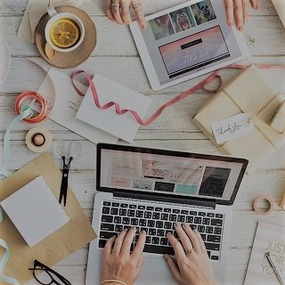
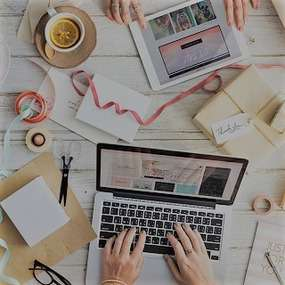
reconvrestion jpg to jp2

diff --git a/style.css b/style.css
@@ -1,1 +1,1 @@
-body{margin:0;padding:0;background:#FFF;overflow-x:hidden;-webkit-font-smoothing:antialiased;-moz-osx-font-smoothing:grayscale}a,button{transition:all .3s ease-in-out;outline:none!important}a:hover{text-decoration:none;cursor:pointer}#page-loading-blocs-notifaction{position:fixed;top:0;bottom:0;width:100%;z-index:100000;background:#FFF url("img/pageload-spinner.gif") no-repeat center center}.list-social{list-style:none;display:flex;flex-direction:row}.list-social li{margin:auto 3.5rem}.keywords{color:#ccc;font-size:1px}.quote{font-size:2.5rem}.title-section{text-align:center;font-size:3.8rem;font-weight:bolder;margin:0 0 2rem}.parlons,.partenaires>li{color:black!important}.parlons{font-size:1.4rem}.bloc-form{display:flex;flex-direction:column;align-items:center}.row-footer,.partenaires{display:flex;justify-content:center}.partenaires{margin:20px 0}.bloc{width:100%;clear:both;background:50% 50% no-repeat;padding:0 50px;-webkit-background-size:cover;-moz-background-size:cover;-o-background-size:cover;background-size:cover;position:relative}.bloc .container{padding-left:0;padding-top:2rem;padding-right:0}.bloc-lg{padding:100px 50px}.bloc-md{padding:50px}.bloc-sm{padding:20px 50px}.bg-center,.bg-l-edge,.bg-r-edge,.bg-t-edge,.bg-b-edge,.bg-tl-edge,.bg-bl-edge,.bg-tr-edge,.bg-br-edge,.bg-repeat{-webkit-background-size:auto!important;-moz-background-size:auto!important;-o-background-size:auto!important;background-size:auto!important}.bg-repeat{background:repeat}.bg-t-edge{background:top no-repeat}.bloc-bg-texture::before{content:"";background-size:2px 2px;position:absolute;top:0;bottom:0;left:0;right:0}.texture-paper::before{background:url("img/texture-paper.png");background-size:280px 280px}.b-parallax{background-attachment:fixed}.d-bloc{color:rgba(255, 255, 255, .7)}.d-bloc button:hover{color:rgba(255, 255, 255, .9)}.d-bloc .icon-round, .d-bloc .icon-square, .d-bloc .icon-rounded, .d-bloc .icon-semi-rounded-a, .d-bloc .icon-semi-rounded-b{border-color:rgba(255, 255, 255, .9)}.d-bloc .divider-h span{border-color:rgba(255, 255, 255, .2)}.d-bloc .a-btn, .d-bloc .navbar a, .d-bloc .navbar-brand, .d-bloc a .icon-sm, .d-bloc a .icon-md, .d-bloc a .icon-lg, .d-bloc a .icon-xl, .d-bloc h1 a, .d-bloc h2 a, .d-bloc h3 a, .d-bloc h4 a, .d-bloc h5 a, .d-bloc h6 a, .d-bloc p a{color:rgba(255, 255, 255, .6)}.d-bloc .a-btn:hover, .d-bloc .navbar a:hover, .d-bloc .navbar-brand:hover, .d-bloc a:hover .icon-sm, .d-bloc a:hover .icon-md, .d-bloc a:hover .icon-lg, .d-bloc a:hover .icon-xl, .d-bloc h1 a:hover, .d-bloc h2 a:hover, .d-bloc h3 a:hover, .d-bloc h4 a:hover, .d-bloc h5 a:hover, .d-bloc h6 a:hover, .d-bloc p a:hover{color:rgba(255, 255, 255, 1)}.d-bloc .navbar-toggle .icon-bar{background:rgba(255, 255, 255, 1)}.d-bloc .btn-wire, .d-bloc .btn-wire:hover{color:rgba(255, 255, 255, 1);border-color:rgba(255, 255, 255, 1)}.d-bloc .panel{color:rgba(0, 0, 0, .5)}.d-bloc .panel button:hover{color:rgba(0, 0, 0, .7)}.d-bloc .panel icon{border-color:rgba(0, 0, 0, .7)}.d-bloc .panel .divider-h span{border-color:rgba(0, 0, 0, .1)}.d-bloc .panel .a-btn{color:rgba(0, 0, 0, .6)}.d-bloc .panel .a-btn:hover{color:rgba(0, 0, 0, 1)}.d-bloc .panel .btn-wire, .d-bloc .panel .btn-wire:hover{color:rgba(0, 0, 0, .7);border-color:rgba(0, 0, 0, .3)}.d-bloc .panel,.l-bloc{color:rgba(0, 0, 0, .5)}.d-bloc .panel button:hover, .l-bloc button:hover{color:rgba(0, 0, 0, .7)}.l-bloc .icon-round, .l-bloc .icon-square, .l-bloc .icon-rounded, .l-bloc .icon-semi-rounded-a, .l-bloc .icon-semi-rounded-b{border-color:rgba(0, 0, 0, .7)}.d-bloc .panel .divider-h span, .l-bloc .divider-h span{border-color:rgba(0, 0, 0, .1)}.d-bloc .panel .a-btn, .l-bloc .a-btn, .l-bloc .navbar a, .l-bloc .navbar-brand, .l-bloc a .icon-sm, .l-bloc a .icon-md, .l-bloc a .icon-lg, .l-bloc a .icon-xl, .l-bloc h1 a, .l-bloc h2 a, .l-bloc h3 a, .l-bloc h4 a, .l-bloc h5 a, .l-bloc h6 a, .l-bloc p a{color:rgba(0, 0, 0, .6)}.d-bloc .panel .a-btn:hover, .l-bloc .a-btn:hover, .l-bloc .navbar a:hover, .l-bloc .navbar-brand:hover, .l-bloc a:hover .icon-sm, .l-bloc a:hover .icon-md, .l-bloc a:hover .icon-lg, .l-bloc a:hover .icon-xl, .l-bloc h1 a:hover, .l-bloc h2 a:hover, .l-bloc h3 a:hover, .l-bloc h4 a:hover, .l-bloc h5 a:hover, .l-bloc h6 a:hover, .l-bloc p a:hover{color:rgba(0, 0, 0, 1)}.l-bloc .navbar-toggle .icon-bar{color:rgba(0, 0, 0, .6)}.d-bloc .panel .btn-wire, .d-bloc .panel .btn-wire:hover, .l-bloc .btn-wire, .l-bloc .btn-wire:hover{color:rgba(0,0,0,.7);border-color:rgba(0,0,0,.3)}.voffset{margin-top:30px}.voffset-lg{margin-top:80px}.row-no-gutters{margin-right:0;margin-left:0}.row.row-no-gutters > [class^="col-"], .row.row-no-gutters > [class*=" col-"]{padding-right:0;padding-left:0}#bloc-1-hero h1{font-size:32px}.navbar{margin-bottom:0;z-index:1}.navbar-brand{height:auto;padding:3px 15px;font-size:25px;font-weight:normal;font-weight:600;line-height:44px}.navbar-brand img{max-height:200px;margin:0 5px 0 0;display:inline}.navbar-brand img[src$=svg]{min-width:100px}.nav-center .navbar-brand img{margin:0}.navbar .nav{padding-top:2px;margin-right:-16px;float:right;z-index:1}.nav>li{float:left;margin-top:4px;font-size:16px}.navbar-nav .open .dropdown-menu>li>a{text-align:inherit}.nav > li a:hover, .nav > li a:focus{background:transparent}.navbar-toggle{margin:10px 10px 0 0;border:0px}.navbar-toggle:hover{background:transparent!important}.navbar-toggle .icon-bar{background-color:rgba(0, 0, 0, .5);width:26px}.nav-invert .navbar .nav{float:left}.nav-invert .navbar-header, .nav-invert .navbar-brand{float:right;position:relative;z-index:2}@media (min-width: 768px){.site-navigation{position:absolute;top:50%;right:20px;transform:translate(0, -50%);-webkit-transform:translateY(-50%)}.nav > li .dropdown-menu a, .nav > li .dropdown-menu a:hover{color:#484848}.nav-invert .site-navigation{left:0;right:0}.nav-center{text-align:center}.nav-center .navbar-header{width:100%}.nav-center .navbar-header, .nav-center .navbar-brand, .nav-center .nav>li{float:none;display:inline-block}.nav-center .site-navigation{position:relative;width:100%;right:0;margin-right:0px;margin-top:20px}.nav-center.mini-nav .navbar-toggle{float:none;margin:10px auto 0}}.nav > li > .dropdown a{background:none!important;display:block;padding:14px 15px}nav .caret{margin:0 5px}.dropdown-menu .dropdown-menu{top:-8px;left:100%}.dropdown-menu .dropmenu-flow-right{top:100%;left:0;margin-left:-1px;border-top-left-radius:0;border-top-right-radius:0}.dropdown-menu .dropdown span{border:4px solid black;border-top-color:transparent;border-right-color:transparent;border-bottom-color:transparent;margin:6px -5px 0 0!important;float:right}.mg-md{margin-top:10px;margin-bottom:20px}.mg-lg{margin-top:10px;margin-bottom:40px}.btn{margin:0 5px 5px 0}.btn.pull-right{margin:0 0 5px 5px}.btn-d,.btn-d:hover,.btn-d:focus{color:#FFF;background:rgba(0,0,0,.3)}button{outline:none!important}.btn-rd{border-radius:40px}.btn-clean{border:1px solid rgba(0, 0, 0, .08);border-bottom-color:rgba(0, 0, 0, .1);text-shadow:0 1px 0 rgba(0, 0, 1, .1);box-shadow:0 1px 3px rgba(0, 0, 1, .25), inset 0 1px 0 0 rgba(255,255,255,.15)}.icon-md{font-size:30px!important}.icon-lg{font-size:60px!important}.sm-shadow{text-shadow:0 1px 2px rgba(0, 0, 0, .3)}.panel-sq, .panel-sq .panel-heading, .panel-sq .panel-footer{border-radius:0}.panel-rd{border-radius:30px}.panel-rd .panel-heading{border-radius:29px 29px 0 0}.panel-rd .panel-footer{border-radius:0 0 29px 29px}.form-control{border-color:rgba(0,0,0,.1);box-shadow:none}.scrollToTop{width:40px;height:40px;position:fixed;bottom:20px;right:20px;opacity:0;z-index:500;transition:all .3s ease-in-out}.scrollToTop span{margin-top:6px}.showScrollTop{font-size:14px;opacity:1}a[data-lightbox]{position:relative;display:block;text-align:center}a[data-lightbox]:hover::before{content:"+";font-family:"HelveticaNeue-Light","Helvetica Neue Light","Helvetica Neue",Helvetica,Arial;font-size:32px;width:50px;height:50px;margin-left:-25px;border-radius:50%;background:rgba(0, 0, 0, .6);color:#FFF;font-weight:100;z-index:1;position:absolute;top:50%;transform:translateY(-50%);-webkit-transform:translateY(-50%)}a[data-lightbox]:hover img{opacity:0.6;-webkit-animation-fill-mode:none;animation-fill-mode:none}#lightbox-modal{display:flex;align-items:center}#lightbox-modal .modal-dialog{width:90%;max-width:900px;margin:0 auto 0}#lightbox-modal .modal-dialog img{max-height:90vh;margin:0 auto}.lightbox-caption{padding:20px;color:#FFF;background:rgba(0,0,0,.5);position:absolute;left:15px;right:15px;bottom:5px}.close-lightbox{color:#FFF;font-size:30px;position:absolute;top:20px;right:20px;z-index:20;background:rgba(0, 0, 0, .5);border:none;line-height:30px;padding:0 9px 5px;opacity:0.3}.close-lightbox:hover,.next-lightbox:hover,.prev-lightbox:hover{opacity:1.0;color:#FFF}.next-lightbox,.prev-lightbox{font-size:20px;color:rgba(255, 255, 255, .9);background:rgba(0, 0, 0, .5);transition:all .2s ease-in-out;position:absolute;top:45%;z-index:1;opacity:0.4}.next-lightbox{padding:6px 8px 1px 13px;right:25px}.prev-lightbox{padding:6px 13px 1px 10px;left:25px}.snapshot-lb .modal-body{padding-bottom:45px}.snapshot-lb .lightbox-caption{padding:0;color:rgba(0,0,0,.5);background:none}h1,h2,h3,h4,h5,h6,p,label,.btn{font-family:"helvetica";font-weight:400;color:#575757!important}a{font-family:"helvetica";font-weight:400;color:black!important}.container{max-width:1000px}.hero-bloc-text{font-size:38px}.hero-bloc-text-sub{font-size:36px}.statement-bloc-text{line-height:26px;font-style:italic;font-size:20px;text-align:center;font-weight:lighter;max-width:520px;margin:auto auto auto auto}p{font-size:1.4rem}.tight-width-whitespace{max-width:600px;margin:auto auto auto auto}.h1{font-size:20px;font-family:"Open Sans"}.cta-hero{margin-top:22px;color:#FFFFFF!important;text-transform:uppercase;padding:12px 28px 12px 28px;font-size:16px;font-weight:700}.social{max-width:400px;margin:auto auto auto auto}h2,.serv_agence{font-size:22px;line-height:1.4em}.serv_reco{font-size:13px}h3{font-size:15px;text-transform:uppercase;font-weight:700;color:#333333!important}.med-width-whitespace{max-width:800px;margin:auto auto auto auto;box-shadow:0px 0px 0px #000}h1{color:#333333!important}h4{color:#333333!important}.icons{margin-bottom:14px;margin-top:24px}.white{color:#FFFFFF!important}.portfolio-thumb{margin-bottom:24px}.portfolio-row{margin-bottom:44px;margin-top:50px}.avatar{box-shadow:0px 4px 9px rgba(0,0,0,0.3)}.black-background{background-color:rgba(165, 147, 99, 0.7);padding:40px 40px 40px 40px}.bold-link{font-weight:900;text-decoration:underline!important}.bgc-white{background-color:#FFF}.bgc-dark-slate-blue{background-color:#364577}.bgc-atomic-tangerine{background-color:#F3976C}.tc-white{color:white!important}.btn-atomic-tangerine{background:#F3976C;color:black!important}.btn-atomic-tangerine:hover{background:#c27956!important;color:#FFFFFF!important}.ltc-white{color:#FFFFFF!important}.ltc-white:hover{color:#cccccc!important}.ltc-atomic-tangerine{color:#F3976C!important}.ltc-atomic-tangerine:hover{color:#c27956!important}.icon-dark-slate-blue{color:#364577!important;border-color:#364577!important}.bg-dots-bg{background-image:url("img/dots-bg.png")}.bg-lines-h2-bg{background-image:url("img/lines-h2-bg.png")}.bg-banniere{background-image:url("img/la-chouette-agence-banniere.jpg")}.bg-presentation{background-image:url("img/image-de-presentation.jpg")}@media (max-width: 1024px){.bloc{padding-left:20px;padding-right:20px}.bloc.full-width-bloc, .bloc-tile-2.full-width-bloc .container, .bloc-tile-3.full-width-bloc .container, .bloc-tile-4.full-width-bloc .container{padding-left:0;padding-right:0}}@media (max-width: 992px) and (min-width: 768px){.navbar .nav{max-width:80%}.nav-center.navbar .nav{max-width:100%}}@media only screen and (min-device-width: 768px) and (max-device-width: 1024px) and (orientation: landscape){.b-parallax{background-attachment:scroll}}@media only screen and (min-device-width: 1024px) and (max-device-width: 1366px) and (-webkit-min-device-pixel-ratio: 1.5){.b-parallax{background-attachment:scroll}}@media (max-width: 991px){.container{width:100%}.b-parallax{background-attachment:scroll}.page-container,#hero-bloc{overflow-x:hidden;position:relative}.bloc{padding-left:constant(safe-area-inset-left);padding-right:constant(safe-area-inset-right)}.bloc-group, .bloc-group .bloc{display:block;width:100%}.bloc-fill-screen .fill-bloc-top-edge, .bloc-fill-screen .fill-bloc-bottom-edge{padding:0 20px;padding-left:constant(safe-area-inset-left);padding-right:constant(safe-area-inset-right)}}@media (max-width: 767px){.page-container{overflow-x:hidden;position:relative}h1,h2,h3,h4,h5,h6,p,#disqus_thread{padding-left:10px!important;padding-right:10px!important}.b-parallax{background-attachment:scroll}.navbar .nav{padding-top:0;border-top:1px solid rgba(0,0,0,.2);float:none!important}.navbar.row{margin-left:0;margin-right:0}.site-navigation{position:inherit;transform:none;-webkit-transform:none;-ms-transform:none}.nav>li{margin-top:0;border-bottom:1px solid rgba(0,0,0,.1);background:rgba(0,0,0,.05);text-align:left;padding-left:15px;width:100%}.nav>li:hover{background:rgba(0, 0, 0, .08)}.dropdown .dropdown a .caret{float:none;margin:5px 0 0 10px!important;border:4px solid black;border-bottom-color:transparent;border-right-color:transparent;border-left-color:transparent}#hero-bloc .navbar .nav{background:rgba(0, 0, 0, .8)}#hero-bloc .navbar .nav a{color:rgba(255,255,255,.6)}.hero{padding:50px 0}.hero-nav{left:-1px;right:-1px}.navbar-collapse{padding:0;overflow-x:hidden;-webkit-box-shadow:none;box-shadow:none}.navbar-brand img{max-height:40px;width:auto}.nav-invert .navbar-header{float:none;width:100%}.nav-invert .navbar-toggle{float:left;margin-left:10px}.bloc{padding-left:0;padding-right:0}.bloc-xxl,.bloc-xl,.bloc-lg{padding:40px 0}.bloc-sm,.bloc-md{padding-left:0;padding-right:0}.bloc-tile-2 .container, .bloc-tile-3 .container, .bloc-tile-4 .container, .bloc-fill-screen .fill-bloc-top-edge, .bloc-fill-screen .fill-bloc-bottom-edge{padding-left:0;padding-right:0}.a-block{padding:0 10px}.btn-dwn{display:none}.voffset{margin-top:5px}.voffset-md{margin-top:20px}.voffset-lg{margin-top:30px}form{padding:5px}.close-lightbox{display:inline-block}.blocsapp-device-iphone5{background-size:216px 425px;padding-top:60px;width:216px;height:425px}.blocsapp-device-iphone5 img{width:180px;height:320px}}@media (max-width: 400px){.bloc{padding-left:0;padding-right:0}.list-social li{margin:auto 2.8rem}}@media (max-width: 767px){.bloc-mob-center-text{text-align:center}img{margin:auto}}
+body{margin:0;padding:0;background:#FFF;overflow-x:hidden;-webkit-font-smoothing:antialiased;-moz-osx-font-smoothing:grayscale}a,button{transition:all .3s ease-in-out;outline:none!important}a:hover{text-decoration:none;cursor:pointer}#page-loading-blocs-notifaction{position:fixed;top:0;bottom:0;width:100%;z-index:100000;background:#FFF url("img/pageload-spinner.gif") no-repeat center center}.list-social{list-style:none;display:flex;flex-direction:row}.list-social li{margin:auto 3.5rem}.keywords{color:#ccc;font-size:1px}.quote{font-size:2.5rem}.title-section{text-align:center;font-size:3.8rem;font-weight:bolder;margin:0 0 2rem}.parlons,.partenaires>li{color:black!important}.parlons{font-size:1.4rem}.bloc-form{display:flex;flex-direction:column;align-items:center}.row-footer,.partenaires{display:flex;justify-content:center}.partenaires{margin:20px 0}.bloc{width:100%;clear:both;background:50% 50% no-repeat;padding:0 50px;-webkit-background-size:cover;-moz-background-size:cover;-o-background-size:cover;background-size:cover;position:relative}.bloc .container{padding-left:0;padding-top:2rem;padding-right:0}.bloc-lg{padding:100px 50px}.bloc-md{padding:50px}.bloc-sm{padding:20px 50px}.bg-center,.bg-l-edge,.bg-r-edge,.bg-t-edge,.bg-b-edge,.bg-tl-edge,.bg-bl-edge,.bg-tr-edge,.bg-br-edge,.bg-repeat{-webkit-background-size:auto!important;-moz-background-size:auto!important;-o-background-size:auto!important;background-size:auto!important}.bg-repeat{background:repeat}.bg-t-edge{background:top no-repeat}.bloc-bg-texture::before{content:"";background-size:2px 2px;position:absolute;top:0;bottom:0;left:0;right:0}.texture-paper::before{background:url("img/texture-paper.png");background-size:280px 280px}.b-parallax{background-attachment:fixed}.d-bloc{color:rgba(255, 255, 255, .7)}.d-bloc button:hover{color:rgba(255, 255, 255, .9)}.d-bloc .icon-round, .d-bloc .icon-square, .d-bloc .icon-rounded, .d-bloc .icon-semi-rounded-a, .d-bloc .icon-semi-rounded-b{border-color:rgba(255, 255, 255, .9)}.d-bloc .divider-h span{border-color:rgba(255, 255, 255, .2)}.d-bloc .a-btn, .d-bloc .navbar a, .d-bloc .navbar-brand, .d-bloc a .icon-sm, .d-bloc a .icon-md, .d-bloc a .icon-lg, .d-bloc a .icon-xl, .d-bloc h1 a, .d-bloc h2 a, .d-bloc h3 a, .d-bloc h4 a, .d-bloc h5 a, .d-bloc h6 a, .d-bloc p a{color:rgba(255, 255, 255, .6)}.d-bloc .a-btn:hover, .d-bloc .navbar a:hover, .d-bloc .navbar-brand:hover, .d-bloc a:hover .icon-sm, .d-bloc a:hover .icon-md, .d-bloc a:hover .icon-lg, .d-bloc a:hover .icon-xl, .d-bloc h1 a:hover, .d-bloc h2 a:hover, .d-bloc h3 a:hover, .d-bloc h4 a:hover, .d-bloc h5 a:hover, .d-bloc h6 a:hover, .d-bloc p a:hover{color:rgba(255, 255, 255, 1)}.d-bloc .navbar-toggle .icon-bar{background:rgba(255, 255, 255, 1)}.d-bloc .btn-wire, .d-bloc .btn-wire:hover{color:rgba(255, 255, 255, 1);border-color:rgba(255, 255, 255, 1)}.d-bloc .panel{color:rgba(0, 0, 0, .5)}.d-bloc .panel button:hover{color:rgba(0, 0, 0, .7)}.d-bloc .panel icon{border-color:rgba(0, 0, 0, .7)}.d-bloc .panel .divider-h span{border-color:rgba(0, 0, 0, .1)}.d-bloc .panel .a-btn{color:rgba(0, 0, 0, .6)}.d-bloc .panel .a-btn:hover{color:rgba(0, 0, 0, 1)}.d-bloc .panel .btn-wire, .d-bloc .panel .btn-wire:hover{color:rgba(0, 0, 0, .7);border-color:rgba(0, 0, 0, .3)}.d-bloc .panel,.l-bloc{color:rgba(0, 0, 0, .5)}.d-bloc .panel button:hover, .l-bloc button:hover{color:rgba(0, 0, 0, .7)}.l-bloc .icon-round, .l-bloc .icon-square, .l-bloc .icon-rounded, .l-bloc .icon-semi-rounded-a, .l-bloc .icon-semi-rounded-b{border-color:rgba(0, 0, 0, .7)}.d-bloc .panel .divider-h span, .l-bloc .divider-h span{border-color:rgba(0, 0, 0, .1)}.d-bloc .panel .a-btn, .l-bloc .a-btn, .l-bloc .navbar a, .l-bloc .navbar-brand, .l-bloc a .icon-sm, .l-bloc a .icon-md, .l-bloc a .icon-lg, .l-bloc a .icon-xl, .l-bloc h1 a, .l-bloc h2 a, .l-bloc h3 a, .l-bloc h4 a, .l-bloc h5 a, .l-bloc h6 a, .l-bloc p a{color:rgba(0, 0, 0, .6)}.d-bloc .panel .a-btn:hover, .l-bloc .a-btn:hover, .l-bloc .navbar a:hover, .l-bloc .navbar-brand:hover, .l-bloc a:hover .icon-sm, .l-bloc a:hover .icon-md, .l-bloc a:hover .icon-lg, .l-bloc a:hover .icon-xl, .l-bloc h1 a:hover, .l-bloc h2 a:hover, .l-bloc h3 a:hover, .l-bloc h4 a:hover, .l-bloc h5 a:hover, .l-bloc h6 a:hover, .l-bloc p a:hover{color:rgba(0, 0, 0, 1)}.l-bloc .navbar-toggle .icon-bar{color:rgba(0, 0, 0, .6)}.d-bloc .panel .btn-wire, .d-bloc .panel .btn-wire:hover, .l-bloc .btn-wire, .l-bloc .btn-wire:hover{color:rgba(0,0,0,.7);border-color:rgba(0,0,0,.3)}.voffset{margin-top:30px}.voffset-lg{margin-top:80px}.row-no-gutters{margin-right:0;margin-left:0}.row.row-no-gutters > [class^="col-"], .row.row-no-gutters > [class*=" col-"]{padding-right:0;padding-left:0}#bloc-1-hero h1{font-size:32px}.navbar{margin-bottom:0;z-index:1}.navbar-brand{height:auto;padding:3px 15px;font-size:25px;font-weight:normal;font-weight:600;line-height:44px}.navbar-brand img{max-height:200px;margin:0 5px 0 0;display:inline}.navbar-brand img[src$=svg]{min-width:100px}.nav-center .navbar-brand img{margin:0}.navbar .nav{padding-top:2px;margin-right:-16px;float:right;z-index:1}.nav>li{float:left;margin-top:4px;font-size:16px}.navbar-nav .open .dropdown-menu>li>a{text-align:inherit}.nav > li a:hover, .nav > li a:focus{background:transparent}.navbar-toggle{margin:10px 10px 0 0;border:0px}.navbar-toggle:hover{background:transparent!important}.navbar-toggle .icon-bar{background-color:rgba(0, 0, 0, .5);width:26px}.nav-invert .navbar .nav{float:left}.nav-invert .navbar-header, .nav-invert .navbar-brand{float:right;position:relative;z-index:2}@media (min-width: 768px){.site-navigation{position:absolute;top:50%;right:20px;transform:translate(0, -50%);-webkit-transform:translateY(-50%)}.nav > li .dropdown-menu a, .nav > li .dropdown-menu a:hover{color:#484848}.nav-invert .site-navigation{left:0;right:0}.nav-center{text-align:center}.nav-center .navbar-header{width:100%}.nav-center .navbar-header, .nav-center .navbar-brand, .nav-center .nav>li{float:none;display:inline-block}.nav-center .site-navigation{position:relative;width:100%;right:0;margin-right:0px;margin-top:20px}.nav-center.mini-nav .navbar-toggle{float:none;margin:10px auto 0}}.nav > li > .dropdown a{background:none!important;display:block;padding:14px 15px}nav .caret{margin:0 5px}.dropdown-menu .dropdown-menu{top:-8px;left:100%}.dropdown-menu .dropmenu-flow-right{top:100%;left:0;margin-left:-1px;border-top-left-radius:0;border-top-right-radius:0}.dropdown-menu .dropdown span{border:4px solid black;border-top-color:transparent;border-right-color:transparent;border-bottom-color:transparent;margin:6px -5px 0 0!important;float:right}.mg-md{margin-top:10px;margin-bottom:20px}.mg-lg{margin-top:10px;margin-bottom:40px}.btn{margin:0 5px 5px 0}.btn.pull-right{margin:0 0 5px 5px}.btn-d,.btn-d:hover,.btn-d:focus{color:#FFF;background:rgba(0,0,0,.3)}button{outline:none!important}.btn-rd{border-radius:40px}.btn-clean{border:1px solid rgba(0, 0, 0, .08);border-bottom-color:rgba(0, 0, 0, .1);text-shadow:0 1px 0 rgba(0, 0, 1, .1);box-shadow:0 1px 3px rgba(0, 0, 1, .25), inset 0 1px 0 0 rgba(255,255,255,.15)}.icon-md{font-size:30px!important}.icon-lg{font-size:60px!important}.sm-shadow{text-shadow:0 1px 2px rgba(0, 0, 0, .3)}.panel-sq, .panel-sq .panel-heading, .panel-sq .panel-footer{border-radius:0}.panel-rd{border-radius:30px}.panel-rd .panel-heading{border-radius:29px 29px 0 0}.panel-rd .panel-footer{border-radius:0 0 29px 29px}.form-control{border-color:rgba(0,0,0,.1);box-shadow:none}.scrollToTop{width:40px;height:40px;position:fixed;bottom:20px;right:20px;opacity:0;z-index:500;transition:all .3s ease-in-out}.scrollToTop span{margin-top:6px}.showScrollTop{font-size:14px;opacity:1}a[data-lightbox]{position:relative;display:block;text-align:center}a[data-lightbox]:hover::before{content:"+";font-family:"HelveticaNeue-Light","Helvetica Neue Light","Helvetica Neue",Helvetica,Arial;font-size:32px;width:50px;height:50px;margin-left:-25px;border-radius:50%;background:rgba(0, 0, 0, .6);color:#FFF;font-weight:100;z-index:1;position:absolute;top:50%;transform:translateY(-50%);-webkit-transform:translateY(-50%)}a[data-lightbox]:hover img{opacity:0.6;-webkit-animation-fill-mode:none;animation-fill-mode:none}#lightbox-modal{display:flex;align-items:center}#lightbox-modal .modal-dialog{width:90%;max-width:900px;margin:0 auto 0}#lightbox-modal .modal-dialog img{max-height:90vh;margin:0 auto}.lightbox-caption{padding:20px;color:#FFF;background:rgba(0,0,0,.5);position:absolute;left:15px;right:15px;bottom:5px}.close-lightbox{color:#FFF;font-size:30px;position:absolute;top:20px;right:20px;z-index:20;background:rgba(0, 0, 0, .5);border:none;line-height:30px;padding:0 9px 5px;opacity:0.3}.close-lightbox:hover,.next-lightbox:hover,.prev-lightbox:hover{opacity:1.0;color:#FFF}.next-lightbox,.prev-lightbox{font-size:20px;color:rgba(255, 255, 255, .9);background:rgba(0, 0, 0, .5);transition:all .2s ease-in-out;position:absolute;top:45%;z-index:1;opacity:0.4}.next-lightbox{padding:6px 8px 1px 13px;right:25px}.prev-lightbox{padding:6px 13px 1px 10px;left:25px}.snapshot-lb .modal-body{padding-bottom:45px}.snapshot-lb .lightbox-caption{padding:0;color:rgba(0,0,0,.5);background:none}h1,h2,h3,h4,h5,h6,p,label,.btn{font-family:"helvetica";font-weight:400;color:#575757!important}a{font-family:"helvetica";font-weight:400;color:black!important}.container{max-width:1000px}.hero-bloc-text{font-size:38px}.hero-bloc-text-sub{font-size:36px}.statement-bloc-text{line-height:26px;font-style:italic;font-size:20px;text-align:center;font-weight:lighter;max-width:520px;margin:auto auto auto auto}p{font-size:1.4rem}.tight-width-whitespace{max-width:600px;margin:auto auto auto auto}.h1{font-size:20px;font-family:"Open Sans"}.cta-hero{margin-top:22px;color:#FFFFFF!important;text-transform:uppercase;padding:12px 28px 12px 28px;font-size:16px;font-weight:700}.social{max-width:400px;margin:auto auto auto auto}h2,.serv_agence{font-size:22px;line-height:1.4em}.serv_reco{font-size:13px}h3{font-size:15px;text-transform:uppercase;font-weight:700;color:#333333!important}.med-width-whitespace{max-width:800px;margin:auto auto auto auto;box-shadow:0px 0px 0px #000}h1{color:#333333!important}h4{color:#333333!important}.icons{margin-bottom:14px;margin-top:24px}.white{color:#FFFFFF!important}.portfolio-thumb{margin-bottom:24px}.portfolio-row{margin-bottom:44px;margin-top:50px}.avatar{box-shadow:0px 4px 9px rgba(0,0,0,0.3)}.black-background{background-color:rgba(165, 147, 99, 0.7);padding:40px 40px 40px 40px}.bold-link{font-weight:900;text-decoration:underline!important}.bgc-white{background-color:#FFF}.bgc-dark-slate-blue{background-color:#364577}.bgc-atomic-tangerine{background-color:#F3976C}.tc-white{color:white!important}.btn-atomic-tangerine{background:#F3976C;color:black!important}.btn-atomic-tangerine:hover{background:#c27956!important;color:#FFFFFF!important}.ltc-white{color:#FFFFFF!important}.ltc-white:hover{color:#cccccc!important}.ltc-atomic-tangerine{color:#F3976C!important}.ltc-atomic-tangerine:hover{color:#c27956!important}.icon-dark-slate-blue{color:#364577!important;border-color:#364577!important}.bg-dots-bg{background-image:url("img/dots-bg.png")}.bg-lines-h2-bg{background-image:url("img/lines-h2-bg.png")}.bg-banniere{background-image:url("img/la-chouette-agence-banniere.jp2")}.bg-presentation{background-image:url("img/image-de-presentation.jp2")}@media (max-width: 1024px){.bloc{padding-left:20px;padding-right:20px}.bloc.full-width-bloc, .bloc-tile-2.full-width-bloc .container, .bloc-tile-3.full-width-bloc .container, .bloc-tile-4.full-width-bloc .container{padding-left:0;padding-right:0}}@media (max-width: 992px) and (min-width: 768px){.navbar .nav{max-width:80%}.nav-center.navbar .nav{max-width:100%}}@media only screen and (min-device-width: 768px) and (max-device-width: 1024px) and (orientation: landscape){.b-parallax{background-attachment:scroll}}@media only screen and (min-device-width: 1024px) and (max-device-width: 1366px) and (-webkit-min-device-pixel-ratio: 1.5){.b-parallax{background-attachment:scroll}}@media (max-width: 991px){.container{width:100%}.b-parallax{background-attachment:scroll}.page-container,#hero-bloc{overflow-x:hidden;position:relative}.bloc{padding-left:constant(safe-area-inset-left);padding-right:constant(safe-area-inset-right)}.bloc-group, .bloc-group .bloc{display:block;width:100%}.bloc-fill-screen .fill-bloc-top-edge, .bloc-fill-screen .fill-bloc-bottom-edge{padding:0 20px;padding-left:constant(safe-area-inset-left);padding-right:constant(safe-area-inset-right)}}@media (max-width: 767px){.page-container{overflow-x:hidden;position:relative}h1,h2,h3,h4,h5,h6,p,#disqus_thread{padding-left:10px!important;padding-right:10px!important}.b-parallax{background-attachment:scroll}.navbar .nav{padding-top:0;border-top:1px solid rgba(0,0,0,.2);float:none!important}.navbar.row{margin-left:0;margin-right:0}.site-navigation{position:inherit;transform:none;-webkit-transform:none;-ms-transform:none}.nav>li{margin-top:0;border-bottom:1px solid rgba(0,0,0,.1);background:rgba(0,0,0,.05);text-align:left;padding-left:15px;width:100%}.nav>li:hover{background:rgba(0, 0, 0, .08)}.dropdown .dropdown a .caret{float:none;margin:5px 0 0 10px!important;border:4px solid black;border-bottom-color:transparent;border-right-color:transparent;border-left-color:transparent}#hero-bloc .navbar .nav{background:rgba(0, 0, 0, .8)}#hero-bloc .navbar .nav a{color:rgba(255,255,255,.6)}.hero{padding:50px 0}.hero-nav{left:-1px;right:-1px}.navbar-collapse{padding:0;overflow-x:hidden;-webkit-box-shadow:none;box-shadow:none}.navbar-brand img{max-height:40px;width:auto}.nav-invert .navbar-header{float:none;width:100%}.nav-invert .navbar-toggle{float:left;margin-left:10px}.bloc{padding-left:0;padding-right:0}.bloc-xxl,.bloc-xl,.bloc-lg{padding:40px 0}.bloc-sm,.bloc-md{padding-left:0;padding-right:0}.bloc-tile-2 .container, .bloc-tile-3 .container, .bloc-tile-4 .container, .bloc-fill-screen .fill-bloc-top-edge, .bloc-fill-screen .fill-bloc-bottom-edge{padding-left:0;padding-right:0}.a-block{padding:0 10px}.btn-dwn{display:none}.voffset{margin-top:5px}.voffset-md{margin-top:20px}.voffset-lg{margin-top:30px}form{padding:5px}.close-lightbox{display:inline-block}.blocsapp-device-iphone5{background-size:216px 425px;padding-top:60px;width:216px;height:425px}.blocsapp-device-iphone5 img{width:180px;height:320px}}@media (max-width: 400px){.bloc{padding-left:0;padding-right:0}.list-social li{margin:auto 2.8rem}}@media (max-width: 767px){.bloc-mob-center-text{text-align:center}img{margin:auto}}

diff --git a/index.html b/index.html
@@ -156,7 +156,7 @@
 				</div>
 				<div class="row tight-width-whitespace portfolio-row">
 					<div class="col-sm-6">
-						<a href="/index.html" data-lightbox="img/1.jpg" data-gallery-id="gallery-1" data-caption="Refonte d'un site web pour un journal local" data-frame="snapshot-lb"><img src="img/1.jpg" alt="Lyon web design logo agence web meilleure agence et refonte site web journal" class="img-responsive portfolio-thumb" /></a>
+						<a href="/index.html" data-lightbox="img/1.jp2" data-gallery-id="gallery-1" data-caption="Refonte d'un site web pour un journal local" data-frame="snapshot-lb"><img src="img/1.jpg" alt="Lyon web design logo agence web meilleure agence et refonte site web journal" class="img-responsive portfolio-thumb" /></a>
 						<h3 class="mg-md text-center">
 							Refonte d'un site web pour un journal local
 						</h3>
@@ -165,7 +165,7 @@
 						</p>
 					</div>
 					<div class="col-sm-6">
-						<a href="#" data-lightbox="img/2.jpg" data-gallery-id="gallery-1" data-caption="Création d'un site web pour photographes" data-frame="snapshot-lb"><img src="img/2.jpg" class="img-responsive portfolio-thumb" alt="Lyon web design logo agence web meilleure agence, Création d'un site web pour photographes" /></a>
+						<a href="#" data-lightbox="img/2.jp2" data-gallery-id="gallery-1" data-caption="Création d'un site web pour photographes" data-frame="snapshot-lb"><img src="img/2.jpg" class="img-responsive portfolio-thumb" alt="Lyon web design logo agence web meilleure agence, Création d'un site web pour photographes" /></a>
 						<h3 class="mg-md text-center">
 							Création d'un site web pour photographes
 						</h3>
@@ -176,7 +176,7 @@
 				</div>
 				<div class="row tight-width-whitespace portfolio-row">
 					<div class="col-sm-6">
-						<a href="#" data-lightbox="img/3.jpg" data-gallery-id="gallery-1" data-caption="Création d'un site internet pour un voyageur" data-frame="snapshot-lb"><img src="img/3.jpg" class="img-responsive portfolio-thumb" alt="Lyon web design logo agence web meilleure agence, Création d'un site web pour voyageur"/></a>
+						<a href="#" data-lightbox="img/3.jp2" data-gallery-id="gallery-1" data-caption="Création d'un site internet pour un voyageur" data-frame="snapshot-lb"><img src="img/3.jpg" class="img-responsive portfolio-thumb" alt="Lyon web design logo agence web meilleure agence, Création d'un site web pour voyageur"/></a>
 						<h3 class="mg-md text-center">
 							Création d'un site internet pour un voyageur
 						</h3>
@@ -185,7 +185,7 @@
 						</p>
 					</div>
 					<div class="col-sm-6">
-						<a href="#" data-lightbox="img/4.jpg" data-gallery-id="gallery-1" data-caption="Conception d'un site pour une agence de mariage" data-frame="snapshot-lb"><img src="img/4.jpg" class="img-responsive portfolio-thumb" alt="Lyon web design logo agence web meilleure agence, Création d'un site web pour agence de mariage" /></a>
+						<a href="#" data-lightbox="img/4.jp2" data-gallery-id="gallery-1" data-caption="Conception d'un site pour une agence de mariage" data-frame="snapshot-lb"><img src="img/4.jpg" class="img-responsive portfolio-thumb" alt="Lyon web design logo agence web meilleure agence, Création d'un site web pour agence de mariage" /></a>
 						<h3 class="mg-md text-center">
 							Conception d'un site pour une agence de mariage
 						</h3>
